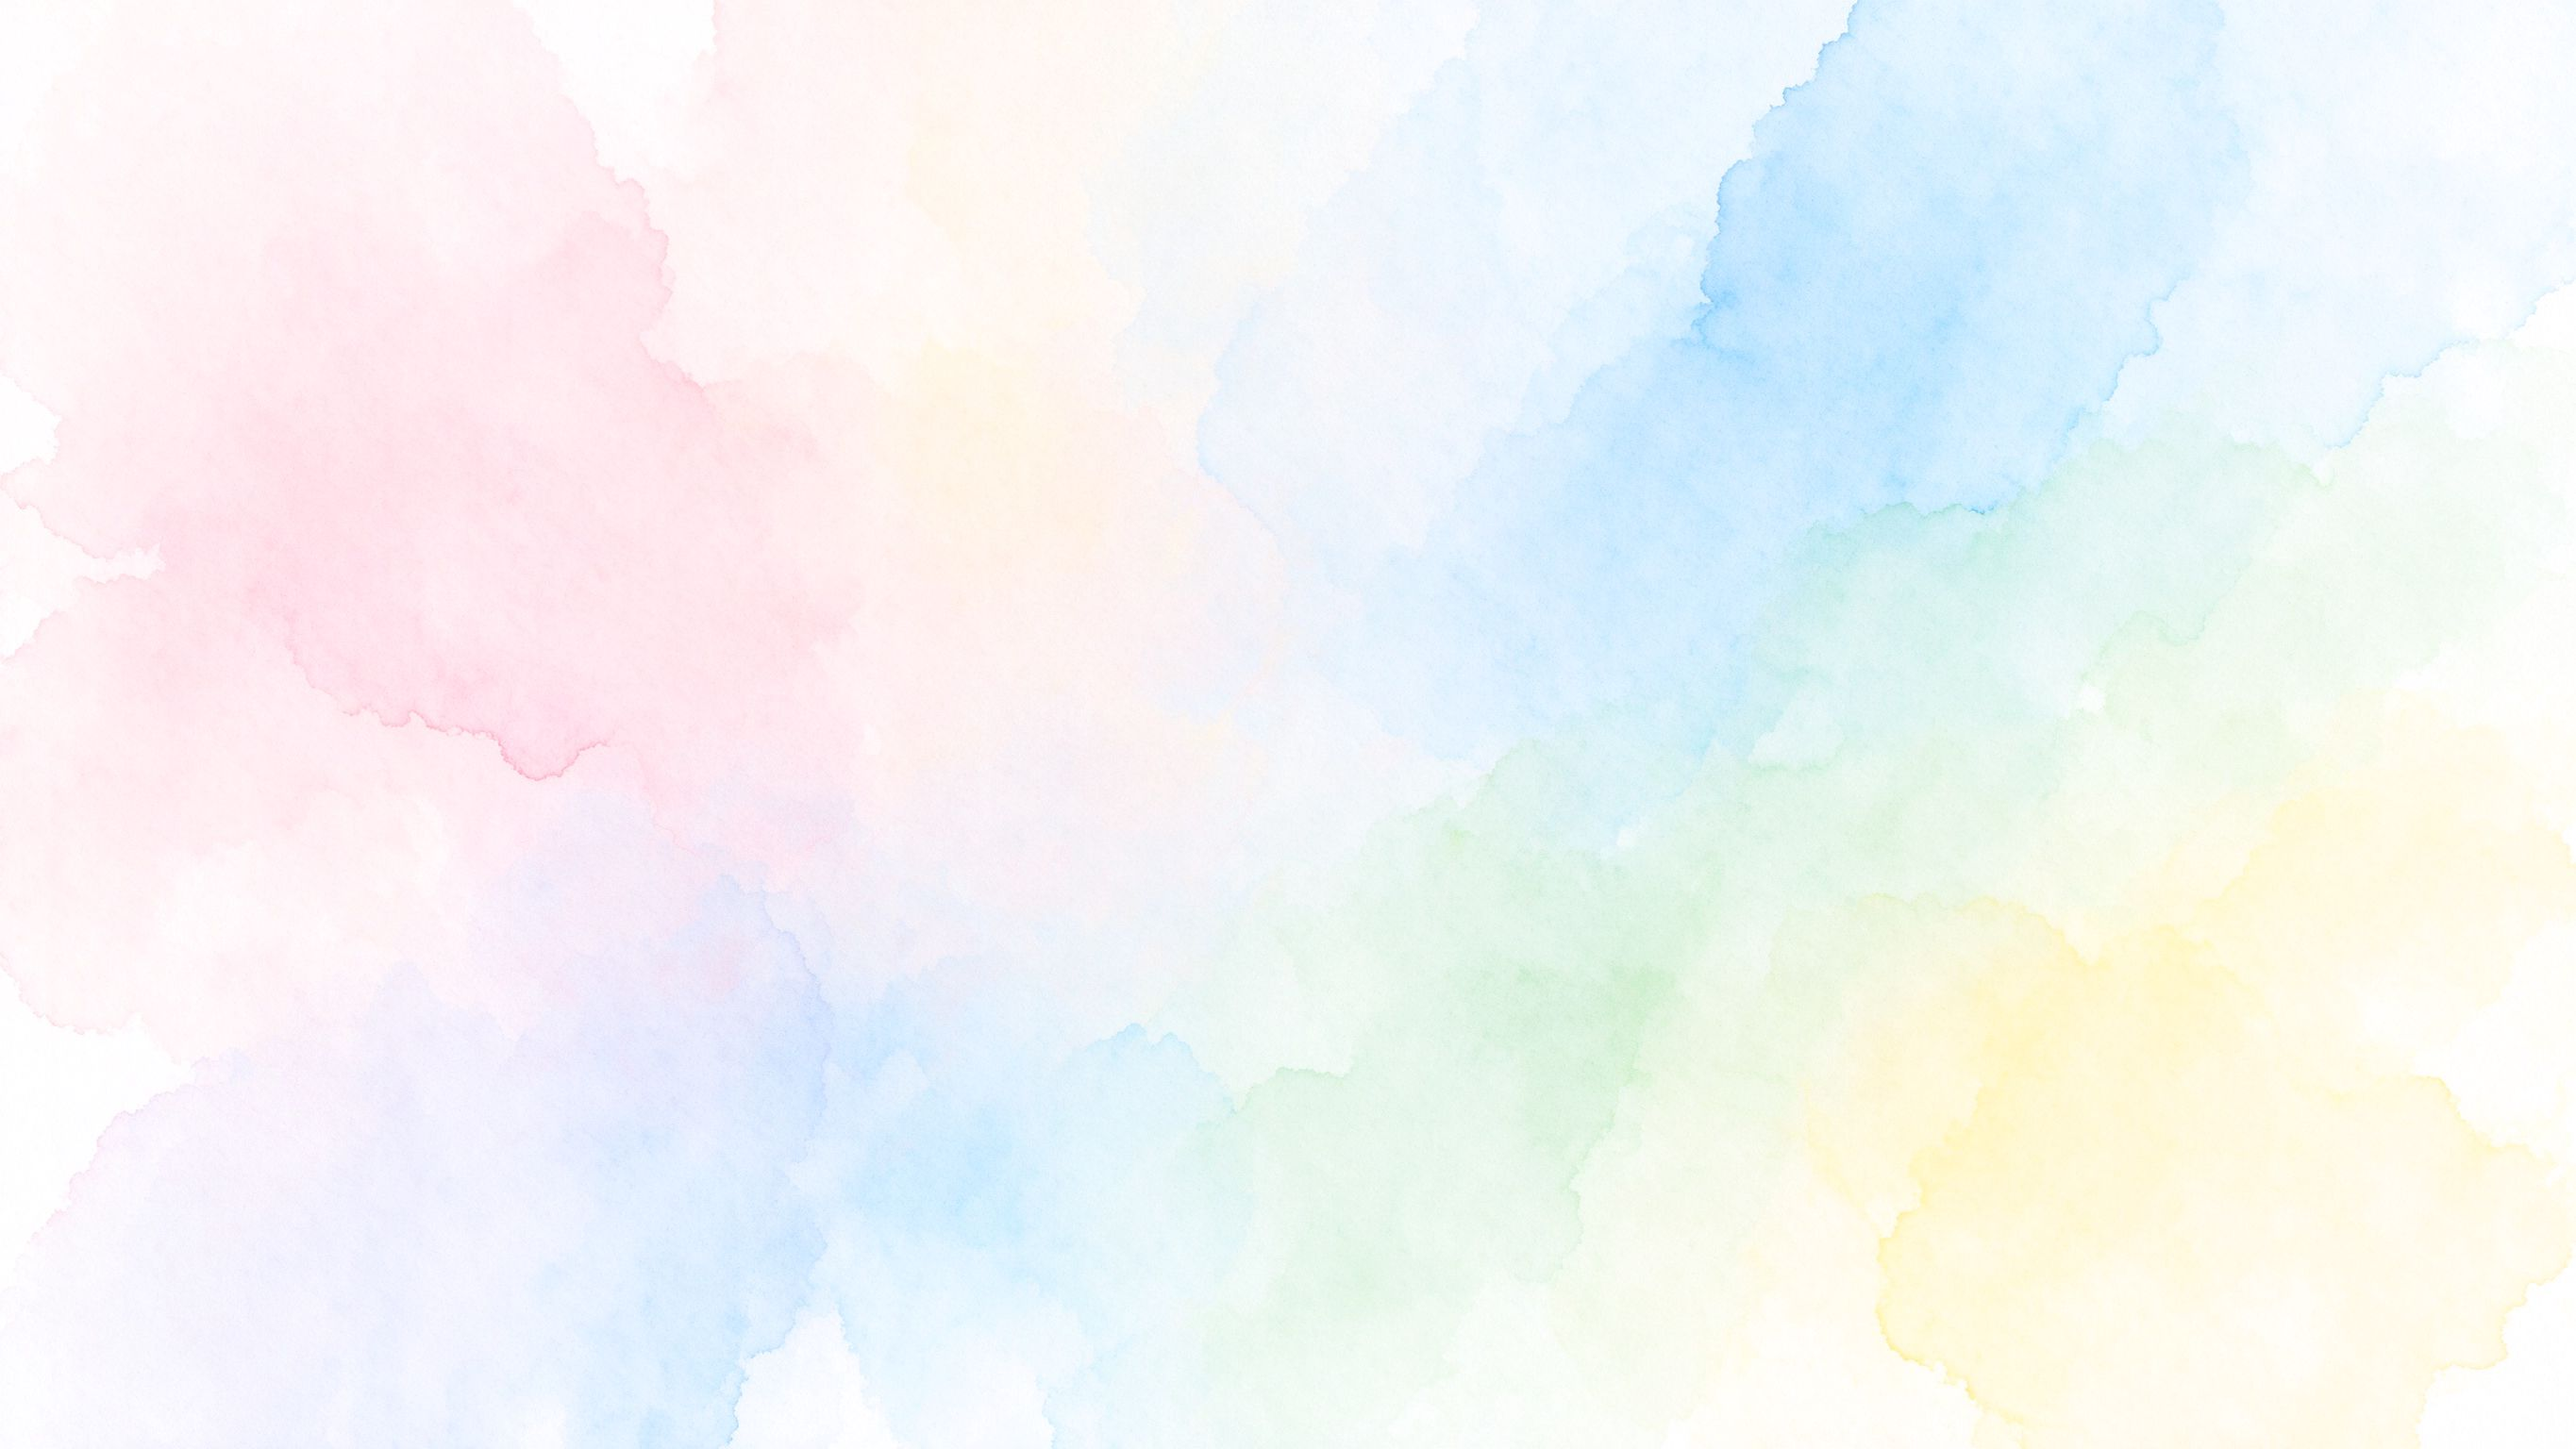
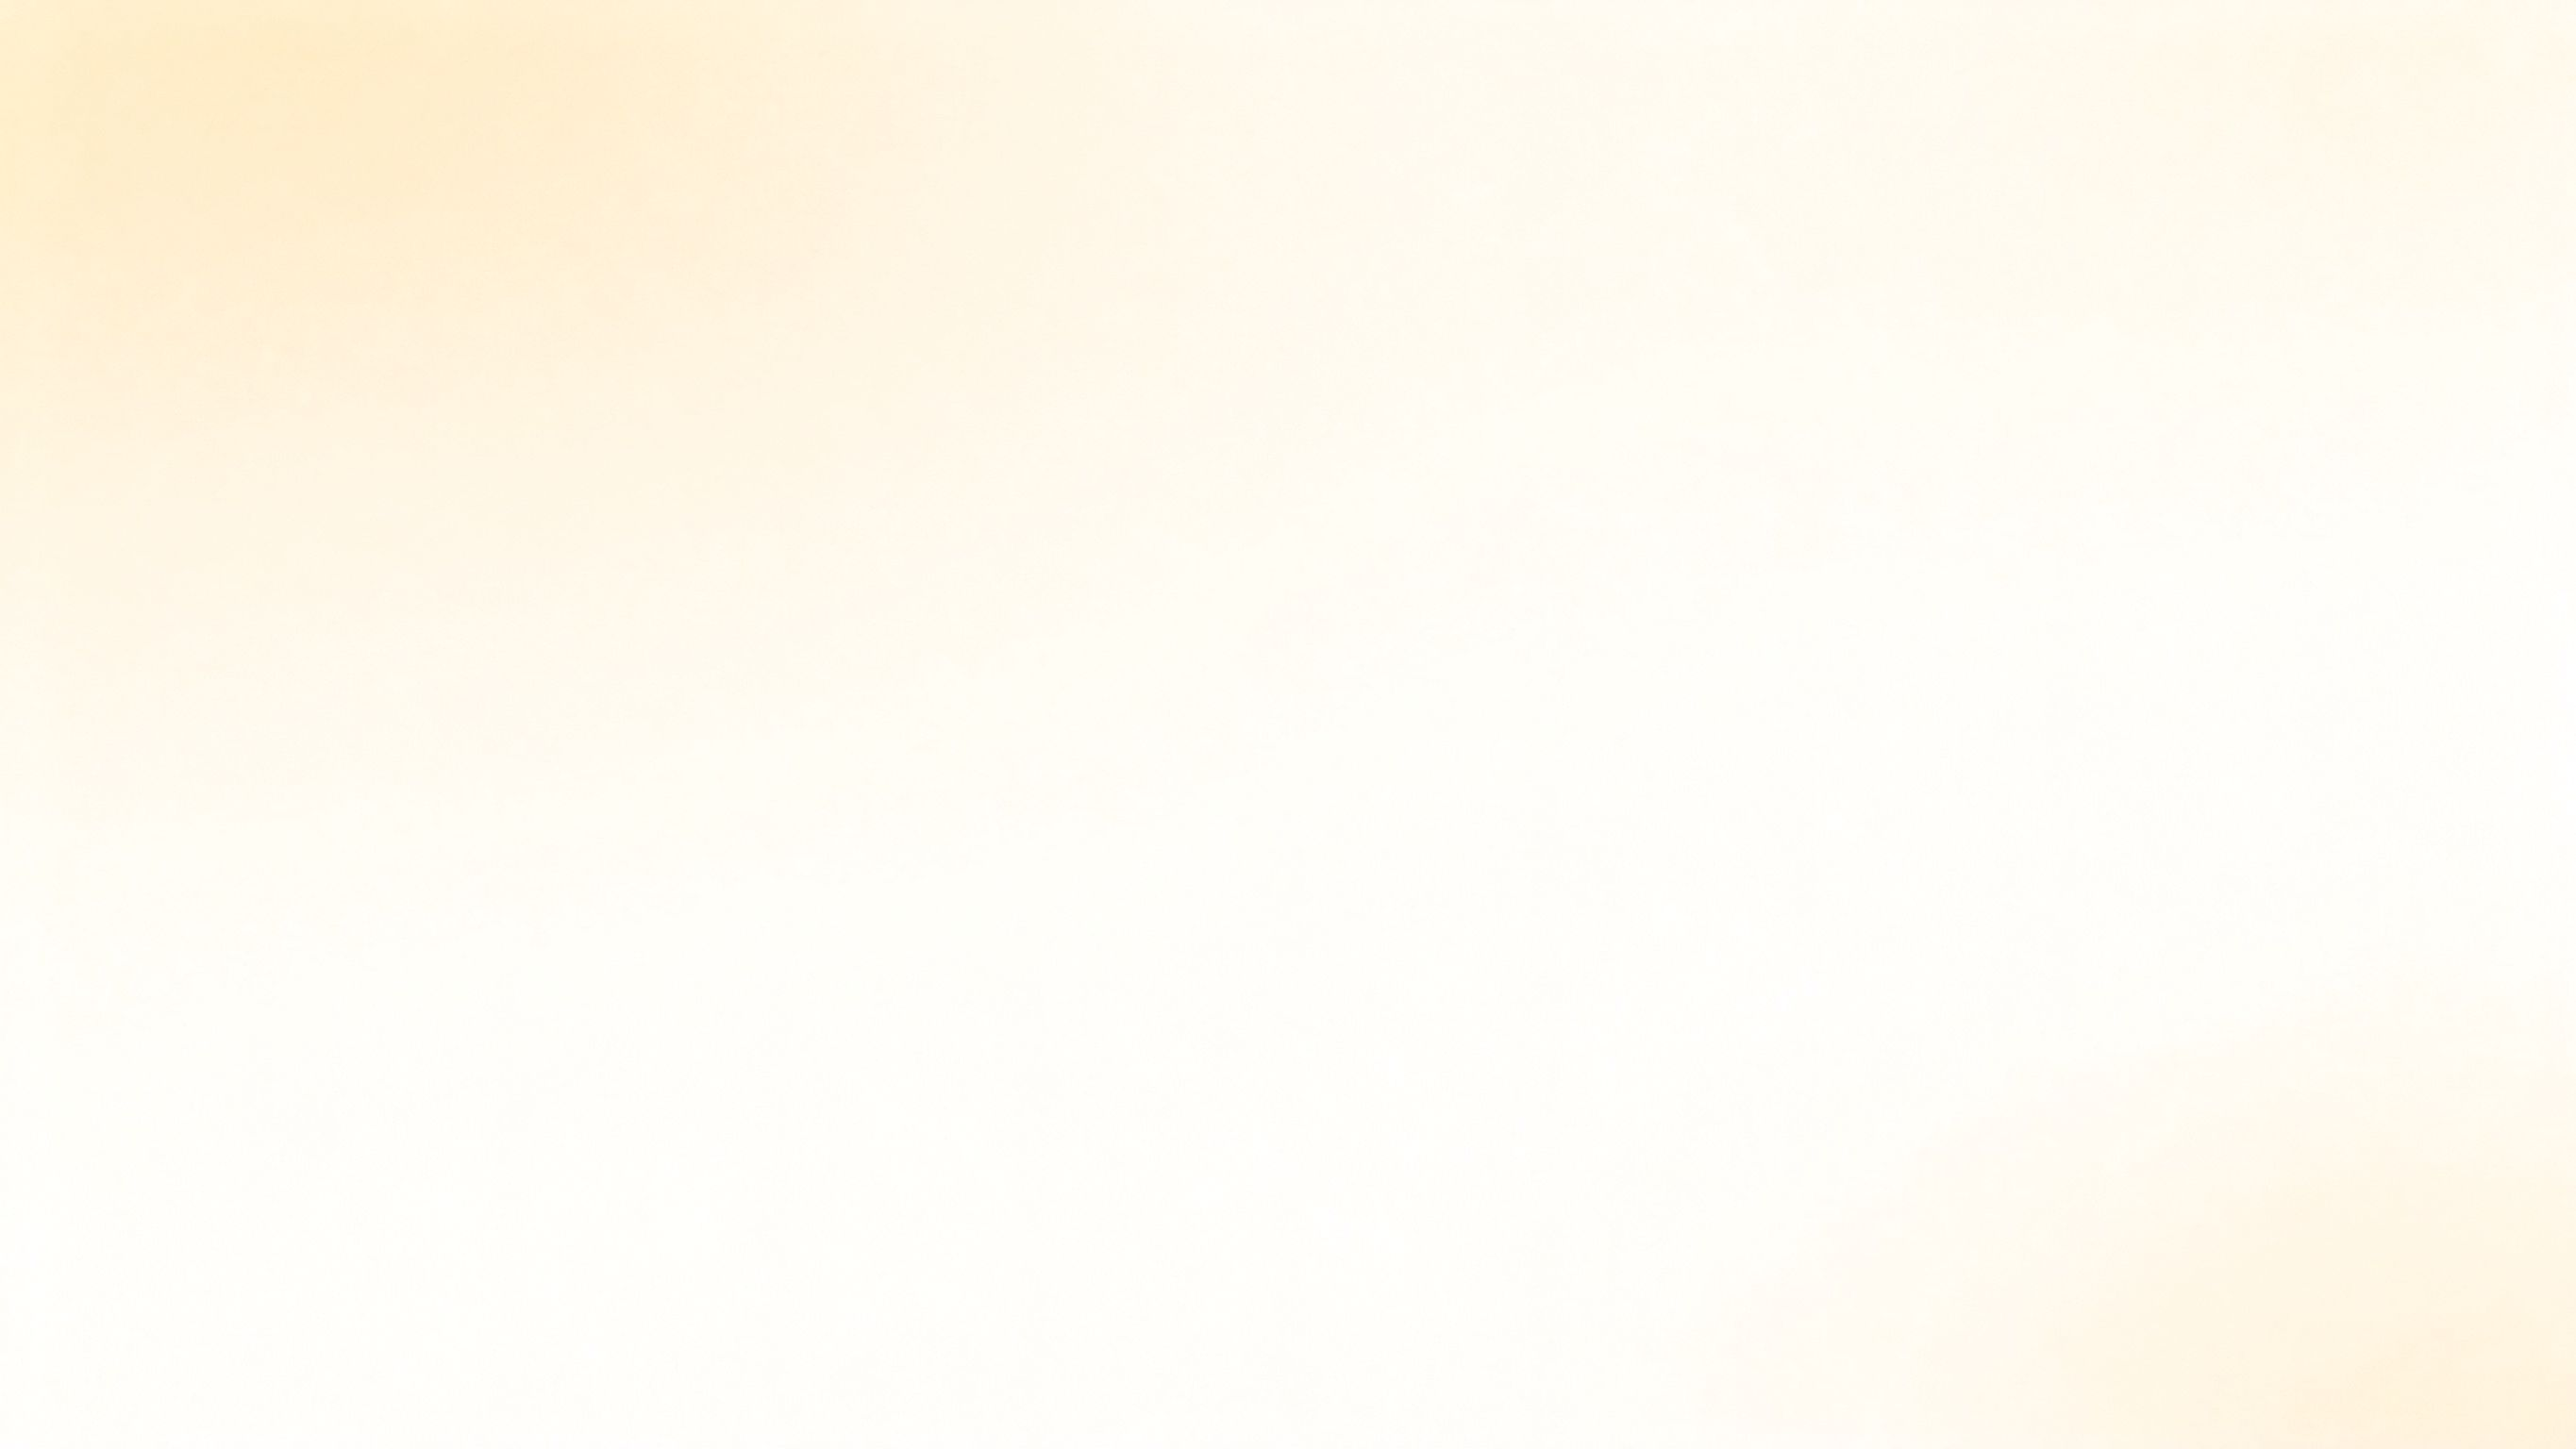
feat: 补全day05作业2颜色数组功能，更换米白背景 - 长度为5的myColor数组，设置颜色循环弹框收集 - 显示颜色填左列并以&连接弹窗，颜色降序填右列 - 作业2背景更换为米白偏黄柔和底色

diff --git a/frontend/day05/作业2.html b/frontend/day05/作业2.html
@@ -162,49 +162,42 @@
         var c9=document.getElementById("color9");
         var c10=document.getElementById("color10");
 
-       var arr = [];
-        c1.oninput=function(){
-            arr[0]=this.value;
-        }
-         c2.oninput=function(){
-            arr[1]=this.value;
-        }
-         c3.oninput=function(){
-            arr[2]=this.value;
-        }
-         c4.oninput=function(){
-            arr[3]=this.value;
-        }
-         c5.oninput=function(){
-            arr[4]=this.value;
-        }
-         c6.oninput=function(){
-            arr[5]=this.value;
-        }
-         c7.oninput=function(){
-            arr[6]=this.value;
-        }
-         c8.oninput=function(){
-            arr[7]=this.value;
-        }
-         c9.oninput=function(){
-            arr[8]=this.value;
-        }
-         c10.oninput=function(){
-            arr[9]=this.value;
+        // b) 创建长度为5的数组，名字为 myColor
+        var myColor = new Array(5);
+
+        // 左列5个文本框（显示原始顺序），右列5个文本框（显示降序结果）
+        var leftInputs = [c1, c3, c5, c7, c9];
+        var rightInputs = [c2, c4, c6, c8, c10];
+
+        // c) 设置颜色：利用循环依次弹出5个提示框，把颜色单词存入 myColor 数组
+        var s1 = document.getElementById("sz1");
+        s1.onclick = function () {
+            for (var i = 0; i < myColor.length; i++) {
+                myColor[i] = prompt("输入第" + (i + 1) + "个颜色单词(共5个)");
+            }
         }
 
-        var s2=document.getElementById("sz2");
-        s2.onclick=function(){
-            var str="";
-            for(var i=0;i<arr.length;i++){
-             str=str+arr[i];
-             if(arr[i]){
-                str=str+"&";
-             }
-             
+        // d) 显示颜色：把数组内容依次显示在左列文本框，并弹出用 & 连接的所有颜色
+        var s2 = document.getElementById("sz2");
+        s2.onclick = function () {
+            for (var i = 0; i < leftInputs.length; i++) {
+                leftInputs[i].value = myColor[i];
+            }
+            alert("您输入的颜色有" + myColor.join("&"));
         }
-        
+
+        // e) 颜色排序：按降序排序后，依次显示在右列文本框（复制一份排序，不改动原数组）
+        var s3 = document.getElementById("sz3");
+        s3.onclick = function () {
+            var sorted = [];
+            for (var i = 0; i < myColor.length; i++) {
+                sorted[i] = myColor[i];
+            }
+            sorted.sort();      // 先按字母升序
+            sorted.reverse();   // 再反转得到降序
+            for (var i = 0; i < rightInputs.length; i++) {
+                rightInputs[i].value = sorted[i];
+            }
         }
 
 

diff --git a/frontend/10.19/早上的作业.html b/frontend/10.19/早上的作业.html
@@ -1,0 +1,42 @@
+<!DOCTYPE html>
+<html lang="en">
+<head>
+    <meta charset="UTF-8">
+    <meta name="viewport" content="width=device-width, initial-scale=1.0">
+    <title>Document</title>
+    <script src="https://unpkg.com/axios/dist/axios.min.js"></script>
+</head>
+<body>
+
+    <input type="button" value="获取" id="get">
+    <input type="button" value="清除" id="clear">
+    <table border="1px" id="t"></table>
+
+    
+
+    <script>
+         var t=document.getElementById("t");
+        var g= document.getElementById("get");
+        g.onclick=function(){
+            axios.get("https://mock.apifox.cn/m1/3083103-0-default/emps/list").then(resp=>{
+                var arr=resp.data.data;
+                var str="";
+                 for(var i=0;i<resp.data.data.length;i++){
+                    str+= "<tr><td>"+arr[i].name+"</td></tr>"
+                 }
+                
+                 t.innerHTML=str
+                
+            })
+        
+        }
+        var c=document.getElementById("clear");
+        c.onclick=function(){
+          
+            t.remove();
+        }
+    </script>
+
+    
+</body>
+</html>
